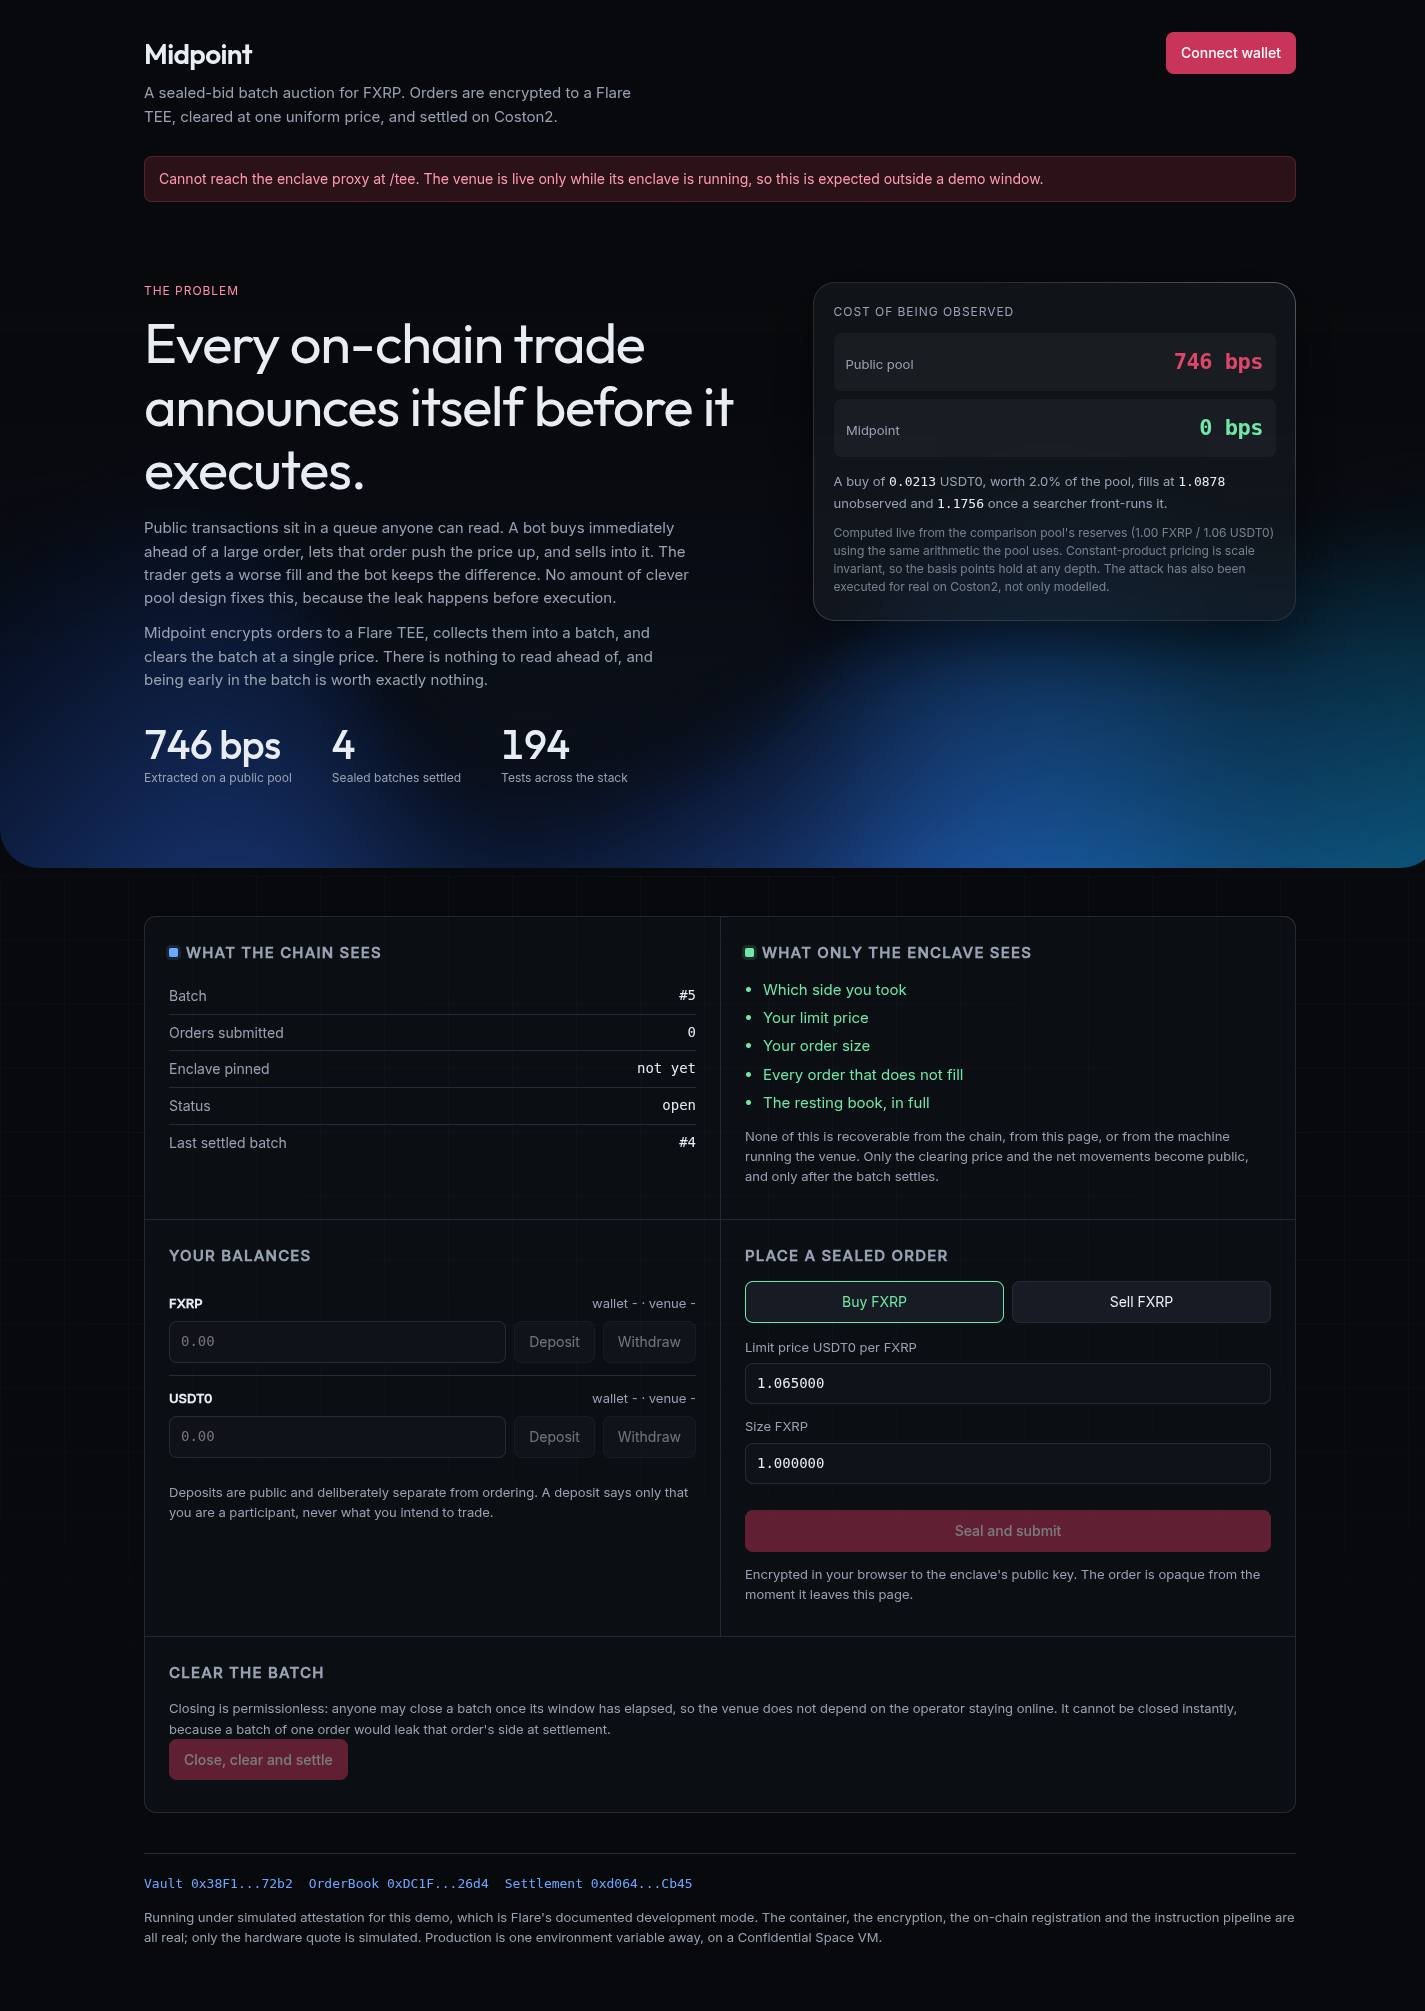
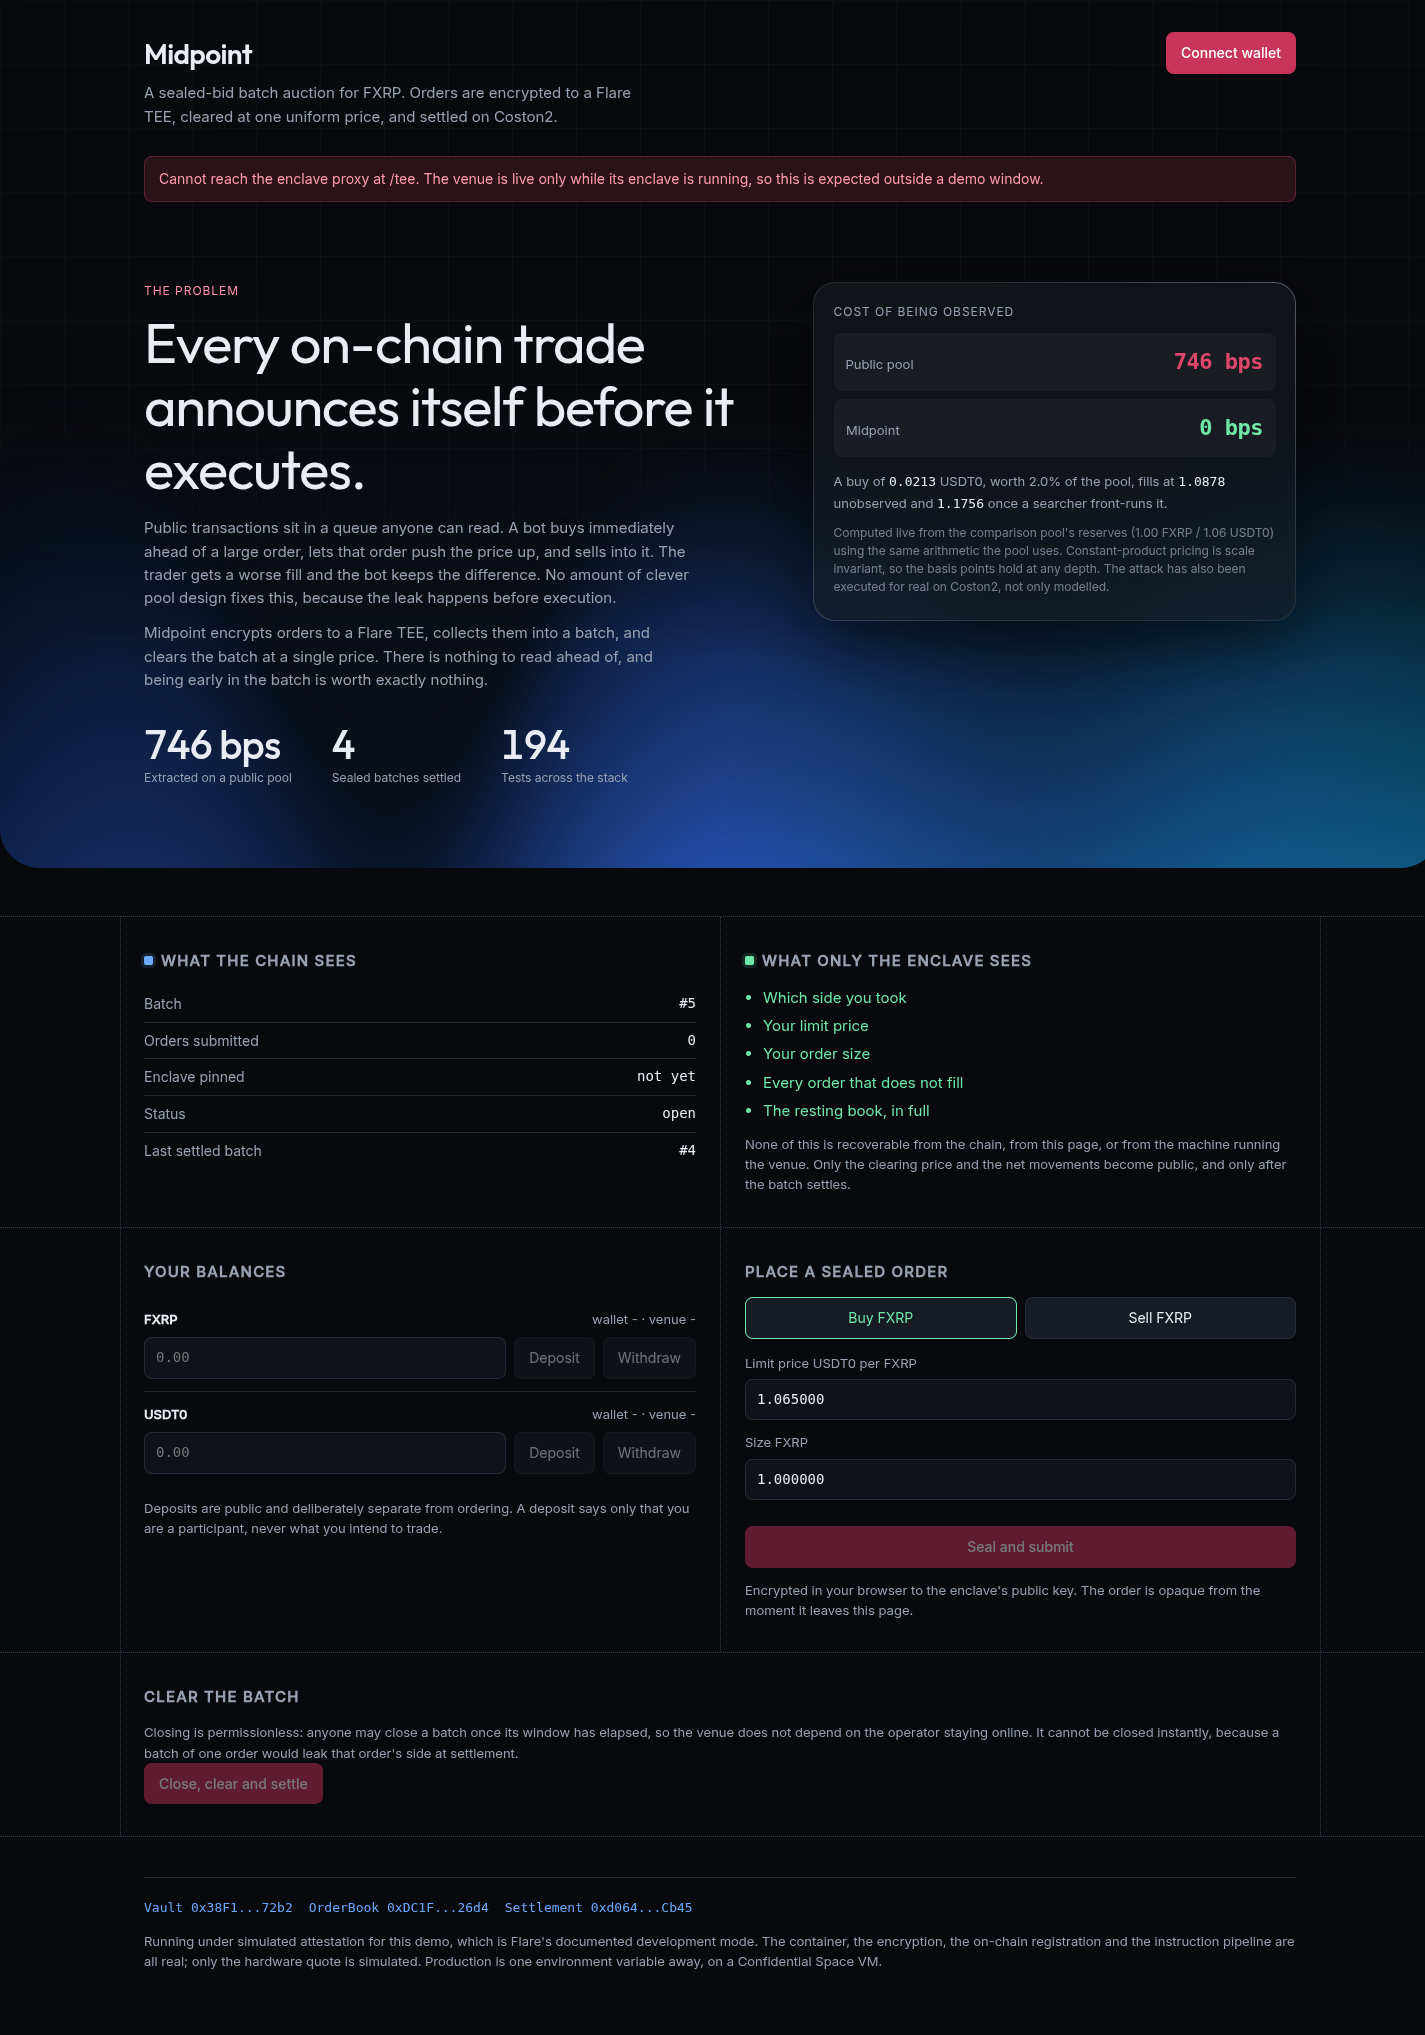
feat: dotted full-bleed lattice, no fills behind the content
Reworks the ruled sheet into what was actually asked for. The previous version
still drew a box: a bordered rectangle with a background, ruled inside. This
draws lines instead.

Three properties carry it, and losing any one turns it back into boxes:

- The rules are full bleed. Rows span the viewport so their horizontal lines
  run edge to edge rather than stopping at the content column, and the two
  outer verticals span the whole lattice so they read as one continuous rule
  passing behind everything.
- Nothing has a fill. No cell has a background. A ruled sheet with a
  background is still a box.
- Dotted rather than solid, since solid hairlines at this density read as a
  table.

The row containers drop their horizontal padding so a cell's edge lands
exactly on the vertical rule, with the cell's own padding providing the gap.
--rule lifts from #232935 to #333c4d, because dots carry roughly half the ink
of a solid line and disappeared at the old value.

The sheen ends up on the glass MEV card alone. It began on six cards, moved to
the sheet, and has now run out of edges to catch light on, which is fine: one
lit surface on a page is the right number.

diff --git a/web/src/styles.css b/web/src/styles.css
@@ -49,8 +49,8 @@ button, input, select, textarea { font: inherit; }
    The element keeps its ordinary border. That border supplies the dim baseline
    and the gradient only adds the highlights, so the edge never disappears
    where the gradient is transparent. */
-.sheen, .sheet, .mev { position: relative; }
-.sheen::after, .sheet::after, .mev::after {
+.sheen, .mev { position: relative; }
+.sheen::after, .mev::after {
   content: "";
   position: absolute;
   /* The containing block is the parent's padding box, so -1px reaches exactly
@@ -121,13 +121,15 @@ h2 { margin: 0 0 14px; font-size: 15px; text-transform: uppercase; letter-spacin
 .chip.account .glass-surface__content { color: var(--text); font-family: var(--font-mono); }
 
 /* --- the lattice -----------------------------------------------------------
-   Content is divided by ruled lines rather than by stacked boxes. One
-   continuous sheet, ruled into cells, with a faint square grid behind it for
-   texture. Six bordered rounded rectangles read as six unrelated widgets; a
-   ruled sheet reads as one instrument. */
+   Content is divided by ruled lines that run the full width and height of the
+   page, not by boxes drawn around it. The lines cross to form cells; the
+   content sits inside them with enough padding to keep clear of the rules.
 
-/* The texture. Fixed so it does not slide against the content on scroll, and
-   masked so it fades out rather than running under the footer. */
+   Dotted rather than solid, and no fill behind any cell. A ruled sheet with a
+   background is still a box; what makes this read as structure rather than as
+   containers is that you can see straight through it. */
+
+/* The faint square texture, well below the ruled lines. */
 .page::before {
   content: "";
   position: fixed; inset: 0; z-index: var(--z-base);
@@ -141,31 +143,49 @@ h2 { margin: 0 0 14px; font-size: 15px; text-transform: uppercase; letter-spacin
 }
 .page > * { position: relative; z-index: var(--z-content); }
 
-/* The sheet. One rectangle, ruled inside, rather than a stack of cards. */
-.sheet {
-  border: 1px solid var(--rule);
-  border-radius: var(--radius-md);
-  overflow: hidden;                 /* keeps the inner rules inside the corners */
-  background: rgba(16, 19, 25, 0.45);
-  margin-bottom: var(--space-10);
-}
+.lattice { position: relative; margin-bottom: var(--space-10); }
 
-.sheet-row { display: grid; grid-template-columns: 1fr; }
-.sheet-row + .sheet-row { border-top: 1px solid var(--rule); }
-.sheet-row.two { grid-template-columns: 1fr 1fr; }
-/* The shared vertical rule. On one column it would be a stray line, so it is
-   only drawn where two cells actually sit side by side. */
-.sheet-row.two > .cell + .cell { border-left: 1px solid var(--rule); }
+/* The two outer verticals, at the content column's edges. They span the whole
+   lattice rather than a single row, so the line reads as one continuous rule
+   passing behind the content. Off screen below 1200px, which is correct: a
+   vertical rule needs room beside it to mean anything. */
+.lattice::before, .lattice::after {
+  content: ""; position: absolute; top: 0; bottom: 0;
+  border-left: 1px dotted var(--rule);
+  pointer-events: none;
+}
+.lattice::before { left: calc(50% - 600px); }
+.lattice::after { left: calc(50% + 600px); }
+
+/* Rows are full bleed, so their rules run edge to edge. The container inside
+   keeps the content aligned with everything else on the page. */
+.lat-row { border-top: 1px dotted var(--rule); }
+.lat-row:last-child { border-bottom: 1px dotted var(--rule); }
+
+/* No horizontal padding here: the cells' own padding provides the gap, which
+   lets a cell's edge land exactly on the vertical rule rather than 24px inside
+   it. */
+.lat-row > .container { display: grid; grid-template-columns: 1fr; padding: 0; }
+.lat-row > .container.two { grid-template-columns: 1fr 1fr; }
+/* The middle vertical. Drawn per row, but every row shares the same column
+   boundary, so consecutive rows join into one unbroken line. */
+.lat-row > .container.two > .cell + .cell {
+  border-left: 1px dotted var(--rule);
+}
 @media (max-width: 820px) {
-  .sheet-row.two { grid-template-columns: 1fr; }
-  .sheet-row.two > .cell + .cell { border-left: 0; border-top: 1px solid var(--rule); }
+  .lat-row > .container.two { grid-template-columns: 1fr; }
+  .lat-row > .container.two > .cell + .cell {
+    border-left: 0; border-top: 1px dotted var(--rule);
+  }
 }
 
-.cell { padding: var(--space-6) var(--space-6) var(--space-8); }
+/* Padding is what keeps the content off the rules. Without it the text would
+   sit against the lines and the whole thing would read as a table. */
+.cell { padding: var(--space-8) var(--space-6); }
 
-/* The semantic pair, restated for a system with no card borders to colour.
-   A legend swatch beside the heading, which suits a ruled sheet better than a
-   coloured edge and keeps the signal exactly as load-bearing as it was. */
+/* The semantic pair, restated for a system with no borders to colour. A legend
+   swatch beside the heading suits a ruled sheet, and keeps the signal exactly
+   as load-bearing as it was. */
 .cell h2 { display: flex; align-items: center; gap: var(--space-2); }
 .cell.public h2::before, .cell.private h2::before {
   content: ""; width: 9px; height: 9px; border-radius: 2px; flex: none;

diff --git a/web/src/App.tsx b/web/src/App.tsx
@@ -275,10 +275,11 @@ export default function App() {
           a blue rectangle rather than as light. */}
       <Hero mev={mev} batch={batch} />
 
-      <div className="container">
-      {/* One ruled sheet, not a stack of cards. See design.md section 5.5. */}
-      <div className="sheet">
-      <div className="sheet-row two">
+      {/* Ruled lines that run the full width of the page, not boxes drawn
+          around the content. See design.md section 4.2. */}
+      <div className="lattice">
+      <div className="lat-row">
+      <div className="container two">
         <section className="cell public">
           <h2>What the chain sees</h2>
           <dl>
@@ -312,8 +313,10 @@ export default function App() {
           </p>
         </section>
       </div>
+      </div>
 
-      <div className="sheet-row two">
+      <div className="lat-row">
+      <div className="container two">
         <section className="cell">
           <h2>Your balances</h2>
           <BalancePanel balances={balances} onDeposit={deposit} onWithdraw={withdraw} disabled={!!busy || !account} frozen={batch?.frozen} />
@@ -336,8 +339,10 @@ export default function App() {
           </p>
         </section>
       </div>
+      </div>
 
-      <div className="sheet-row">
+      <div className="lat-row">
+      <div className="container">
         <section className="cell">
         <h2>Clear the batch</h2>
         <p className="note">
@@ -370,8 +375,10 @@ export default function App() {
         </section>
       </div>
       </div>
+      </div>
 
-      <Footer />
+      <div className="container">
+        <Footer />
       </div>
     </div>
   );

diff --git a/web/src/styles/tokens.css b/web/src/styles/tokens.css
@@ -48,7 +48,7 @@
      nothing more, so it sits far below the threshold where it would compete
      with the rules or with text.
      --------------------------------------------------------------------- */
-  --rule: #232935;
+  --rule: #333c4d;
   --grid-line: rgba(150, 170, 210, 0.045);
   --grid-cell: 64px;
 

diff --git a/design.md b/design.md
@@ -190,11 +190,11 @@ Measured against the reference it was taken from:
 Kept deliberately near that ratio. Past roughly 2x it stops looking like a
 material property and starts looking like a highlight someone drew on.
 
-**Applied to the sheet and the glass MEV card**, and nothing else. Inputs,
-buttons and the side toggles keep plain borders, because the effect means
-"raised surface" and a 28px input is not one. When the section cards became
-cells of one ruled sheet (4.2) the sheen moved with them: one lit rectangle
-rather than six.
+**Applied to the glass MEV card, and nothing else.** It began on the six
+section cards, moved to the sheet that replaced them, and ended up here once
+the sheet lost its border too (4.2). The effect needs an edge to catch light
+on, and the lattice has rules rather than edges. One lit surface on the page
+is the right number anyway.
 
 Two implementation notes, both load-bearing:
 
@@ -208,19 +208,29 @@ Two implementation notes, both load-bearing:
 
 ### 4.2 The ruled sheet
 
-Content is divided by **ruled lines, not by stacked boxes**. One sheet with a
-hairline border, ruled internally into cells, over a faint square lattice.
+Content is divided by **dotted rules that run the full width and height of the
+page**, not by boxes drawn around it. The lines cross to form cells; content
+sits inside them, padded clear of the rules.
 
-Six bordered rounded rectangles read as six unrelated widgets that happen to
-share a page. A ruled sheet reads as one instrument, which is what this is.
-The lattice is texture only, at roughly 4% alpha, and is masked so it fades
-out rather than running under the footer.
+Three properties make it read as structure rather than as containers, and
+losing any one of them turns it back into boxes:
 
-The rules are drawn by the cells themselves (`border-top` between rows,
-`border-left` between columns) rather than by a gap-and-background trick, so
-every line is continuous and lands on an exact pixel. Below 820px the columns
-collapse and the vertical rule becomes a horizontal one, because a vertical
-rule with nothing beside it is just a stray mark.
+1. **The rules are full bleed.** Rows span the viewport, so their horizontal
+   lines run edge to edge rather than stopping at the content column. The two
+   outer verticals sit at the content edges and span the whole lattice, so they
+   read as one continuous rule passing behind everything.
+2. **Nothing has a fill.** No cell has a background. A ruled sheet with a
+   background is still a box; being able to see straight through it is the
+   point.
+3. **Dotted, not solid.** Solid hairlines at this density read as a table.
+
+Behind them is a faint square texture at roughly 4% alpha, masked so it fades
+rather than running under the footer. It is texture only and must stay far
+below the rules in contrast.
+
+Below 820px the columns collapse and the vertical rule becomes a horizontal
+one, because a vertical rule with nothing beside it is a stray mark. The outer
+verticals fall off screen at that width, which is correct for the same reason.
 
 **The semantic pair moved with the layout.** With no card borders left to
 colour, `--public` and `--private` are now legend swatches beside the two
